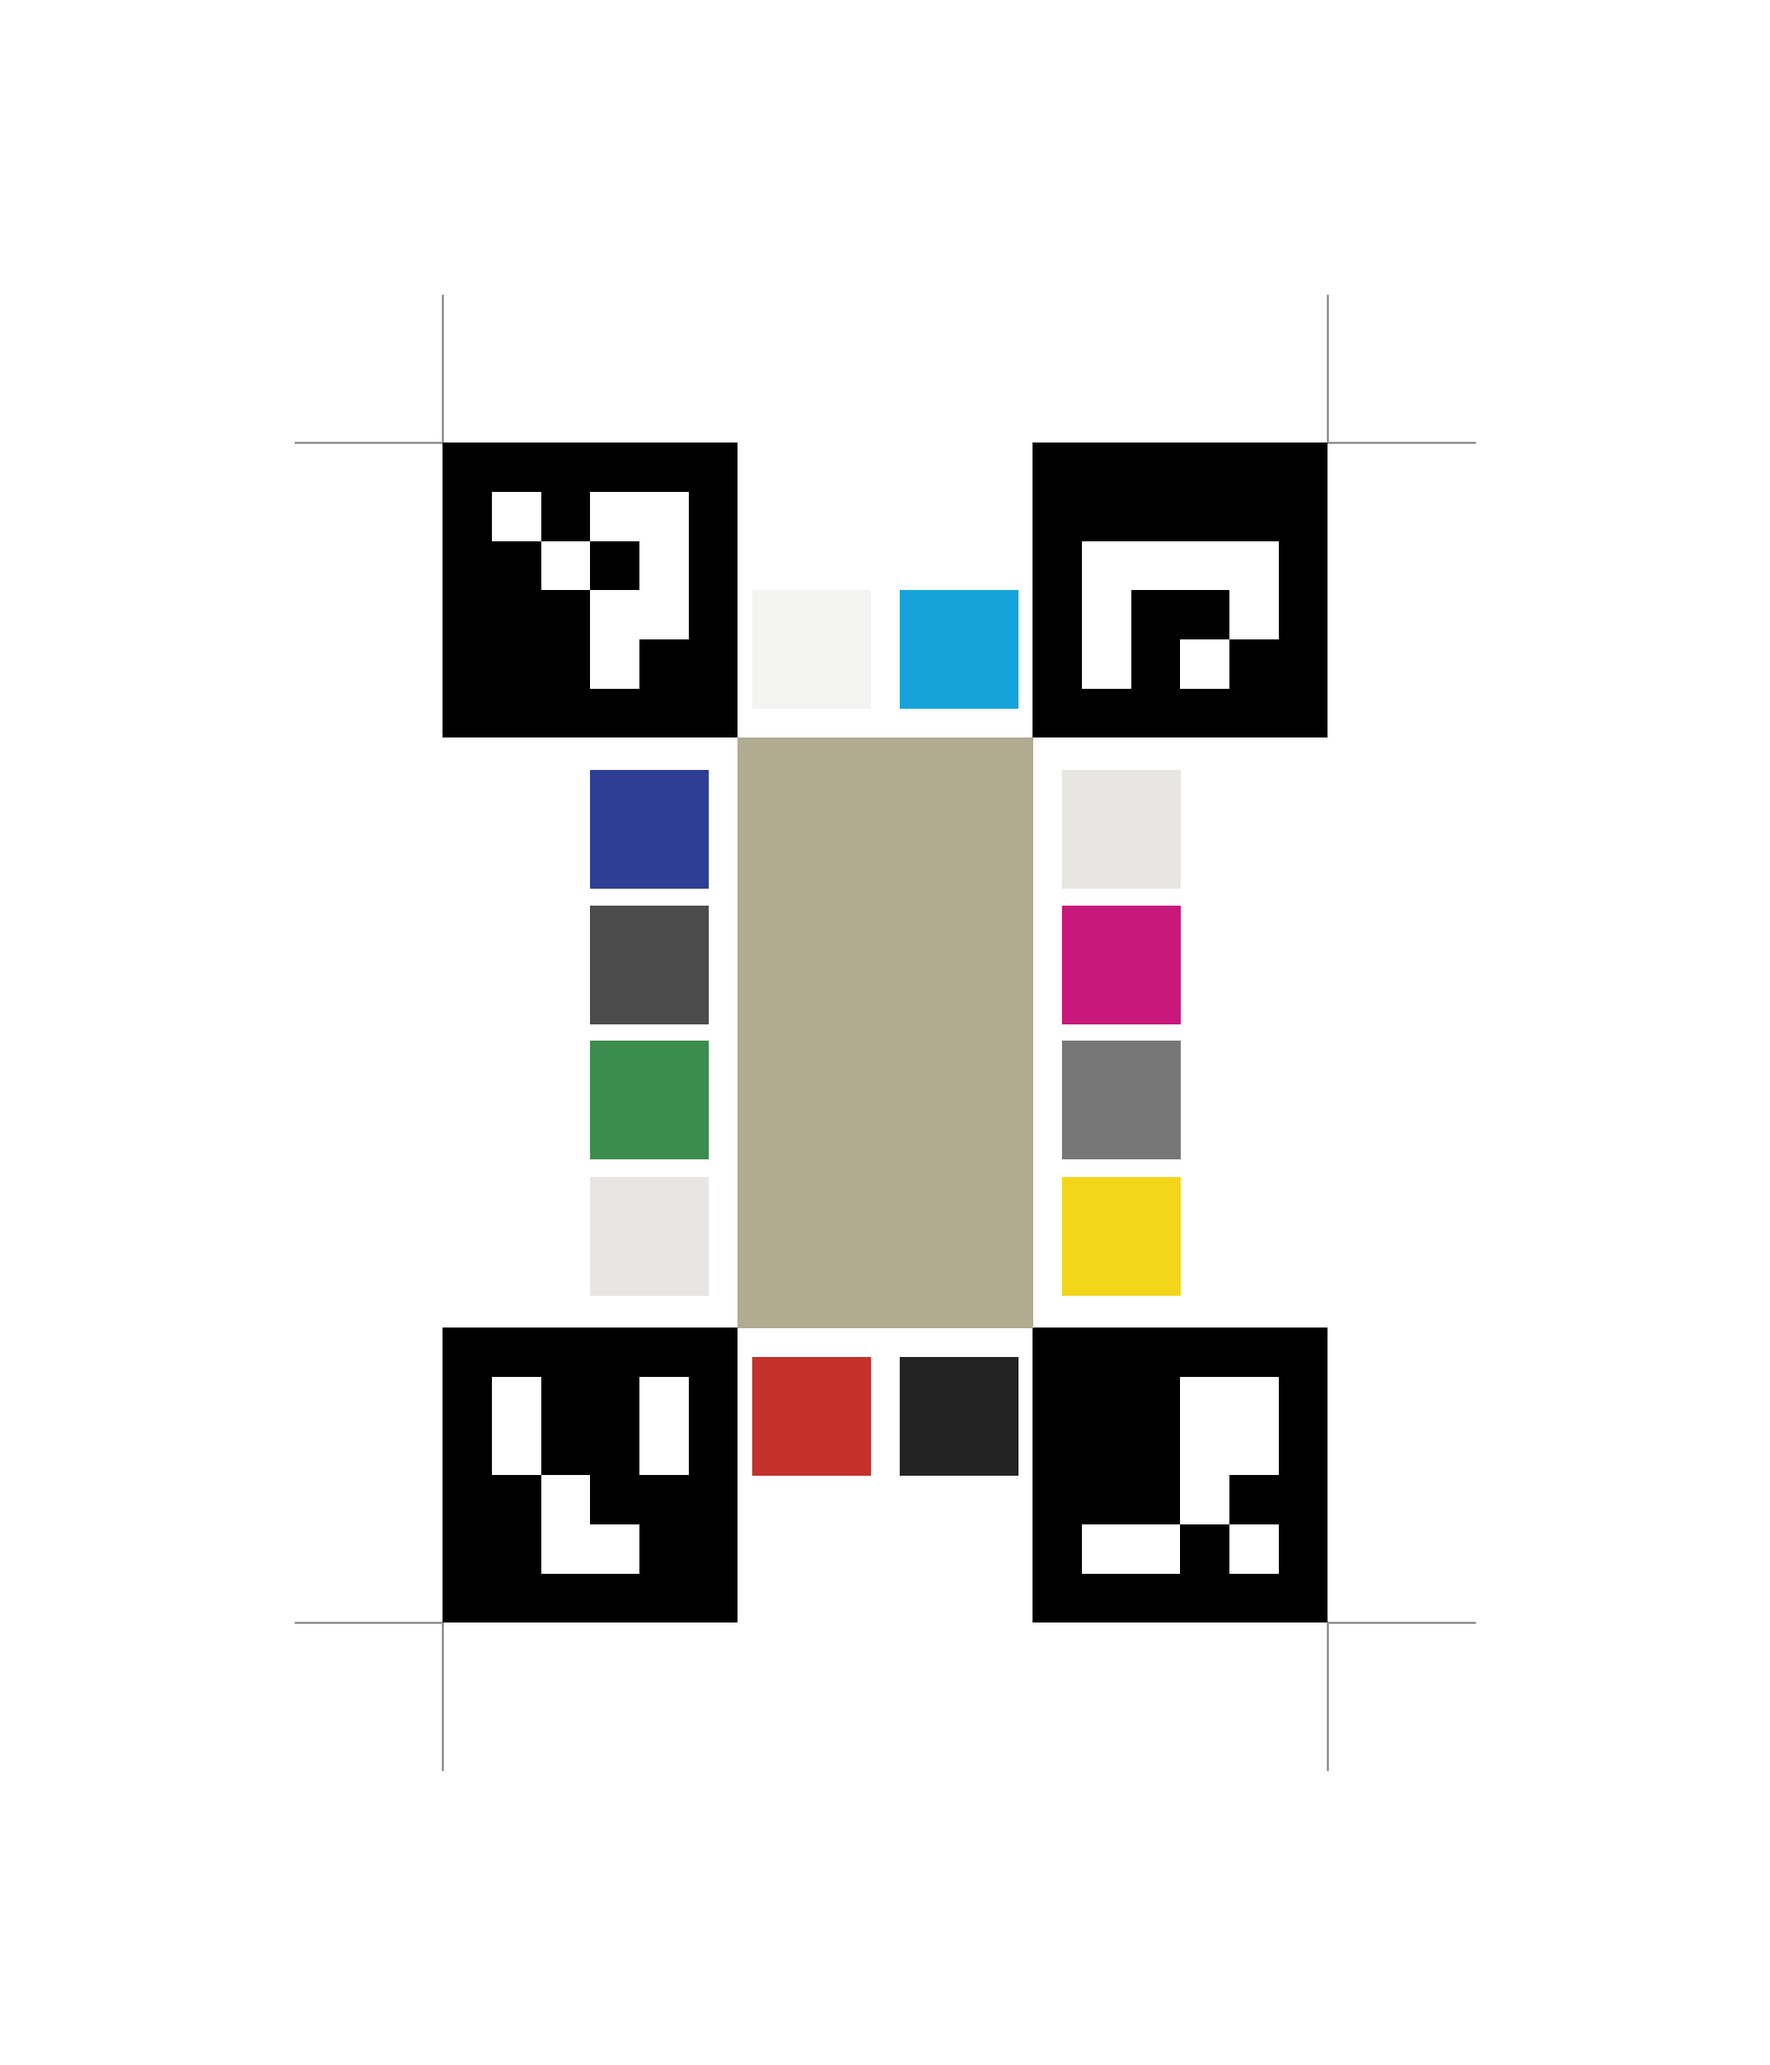
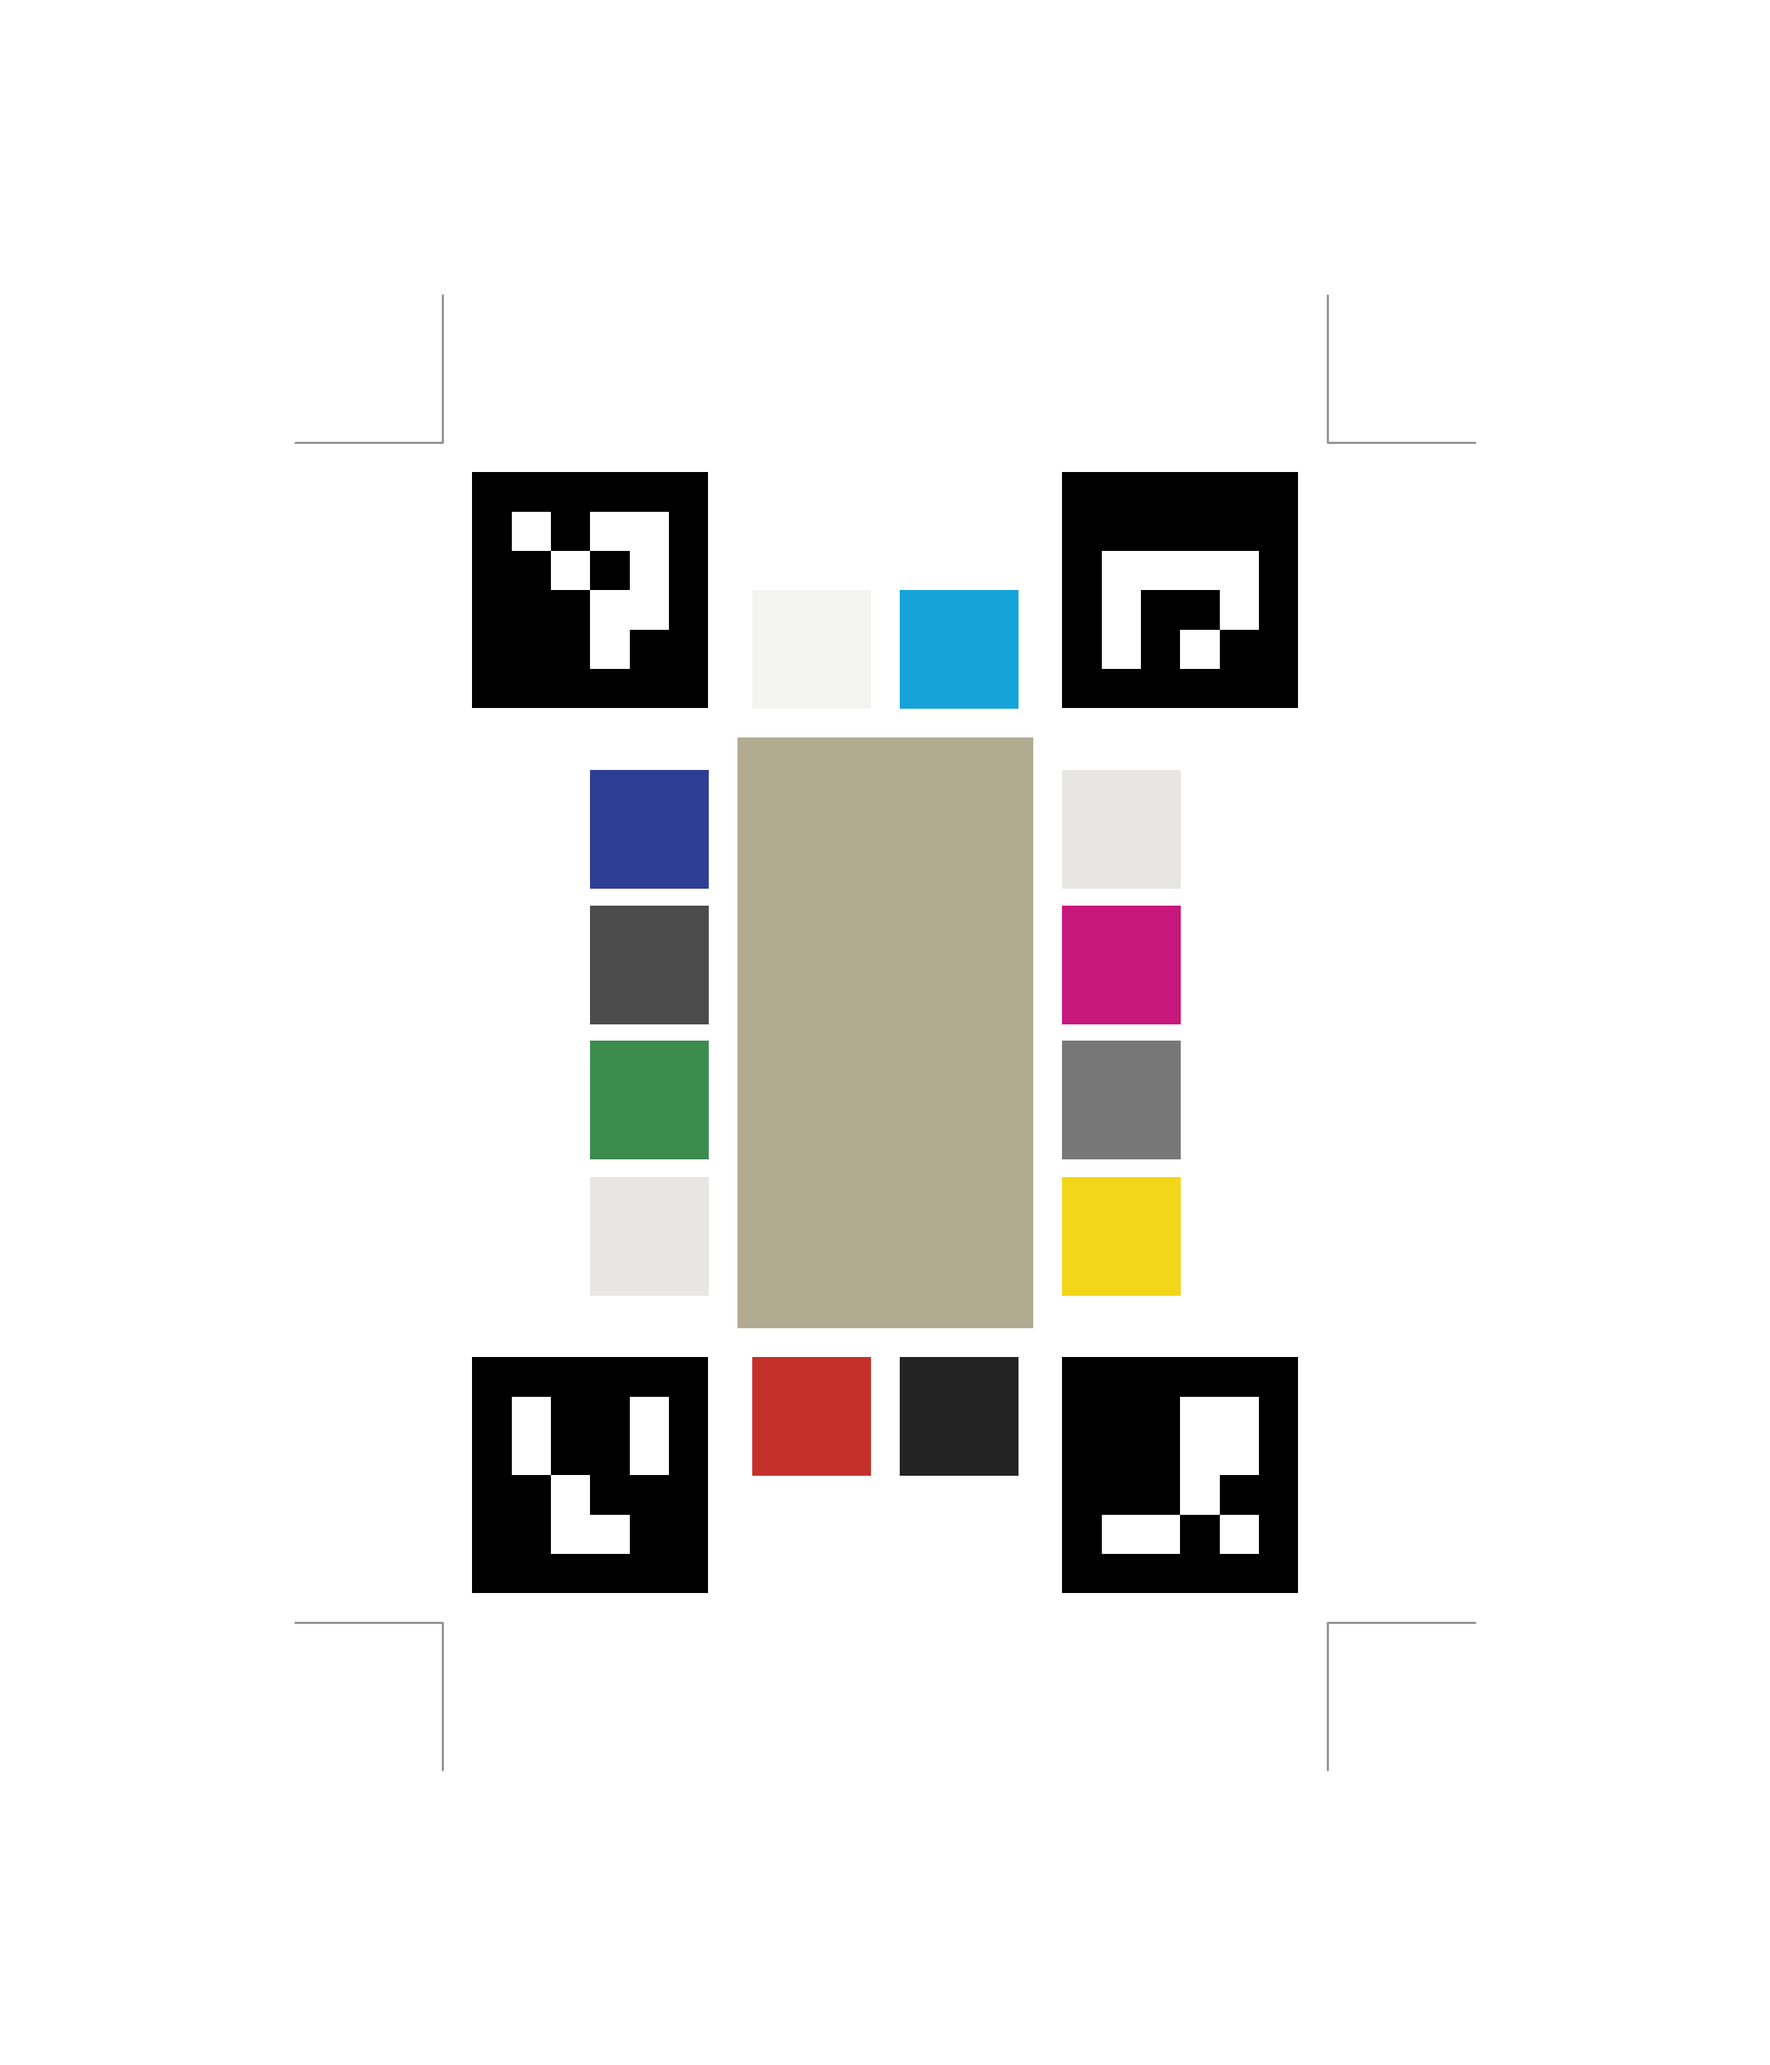
fix(scanner): prevent double-capture race condition in auto-scan

diff --git a/android/app/src/main/java/com/mrpl/wristband/ui/ScanHomeFragment.kt b/android/app/src/main/java/com/mrpl/wristband/ui/ScanHomeFragment.kt
@@ -8,6 +8,7 @@ import android.content.pm.PackageManager
 import android.graphics.Bitmap
 import android.graphics.BitmapFactory
 import android.graphics.Color
+import android.graphics.Matrix
 import android.graphics.drawable.ColorDrawable
 import android.net.Uri
 import android.content.Context
@@ -151,7 +152,12 @@ class ScanHomeFragment : Fragment() {
                 object : ImageCapture.OnImageCapturedCallback() {
                     @androidx.annotation.OptIn(androidx.camera.core.ExperimentalGetImage::class)
                     override fun onCaptureSuccess(image: ImageProxy) {
-                        val bitmap = image.toBitmap()
+                        var bitmap = image.toBitmap()
+                        val rotationDegrees = image.imageInfo.rotationDegrees
+                        if (rotationDegrees != 0) {
+                            val matrix = Matrix().apply { postRotate(rotationDegrees.toFloat()) }
+                            bitmap = Bitmap.createBitmap(bitmap, 0, 0, bitmap.width, bitmap.height, matrix, true)
+                        }
                         image.close()
                         runScanPipeline(bitmap, "H2S-G4-9982")
                     }
@@ -174,16 +180,29 @@ class ScanHomeFragment : Fragment() {
         val cameraProviderFuture = ProcessCameraProvider.getInstance(requireContext())
         cameraProviderFuture.addListener({
             val cameraProvider: ProcessCameraProvider = cameraProviderFuture.get()
-            val preview = Preview.Builder().build().also {
-                it.setSurfaceProvider(viewFinder.surfaceProvider)
+
+            val displayRotation = viewFinder.display.rotation
+            val rotation = when (displayRotation) {
+                0 -> 0
+                90 -> 90
+                180 -> 180
+                270 -> 270
+                else -> 0
             }
+
+            val preview = Preview.Builder()
+                .setTargetRotation(rotation)
+                .build()
+                .also { it.setSurfaceProvider(viewFinder.surfaceProvider) }
 
             imageCapture = ImageCapture.Builder()
                 .setCaptureMode(ImageCapture.CAPTURE_MODE_MINIMIZE_LATENCY)
+                .setTargetRotation(rotation)
                 .build()
 
             val imageAnalyzer = ImageAnalysis.Builder()
                 .setBackpressureStrategy(ImageAnalysis.STRATEGY_KEEP_ONLY_LATEST)
+                .setTargetRotation(rotation)
                 .build()
                 .also {
                     it.setAnalyzer(cameraExecutor) { imageProxy ->
@@ -217,7 +236,16 @@ class ScanHomeFragment : Fragment() {
         lastAnalysisTime = currentTime
 
         try {
-            val bitmap = imageProxy.toBitmap()
+            var bitmap = imageProxy.toBitmap()
+            
+            // Apply rotation from ImageProxy metadata as a safety net
+            // Target rotation on use cases should align frames, but this handles any mismatch
+            val rotationDegrees = imageProxy.imageInfo.rotationDegrees
+            if (rotationDegrees != 0) {
+                val matrix = Matrix().apply { postRotate(rotationDegrees.toFloat()) }
+                bitmap = Bitmap.createBitmap(bitmap, 0, 0, bitmap.width, bitmap.height, matrix, true)
+            }
+            
             val rgbaMat = Mat()
             Utils.bitmapToMat(bitmap, rgbaMat)
             val mat = Mat()
@@ -236,6 +264,7 @@ class ScanHomeFragment : Fragment() {
                     
                     if (elapsed >= 5000) {
                         isProcessingCapture = true
+                        stabilizationStartTime = 0L
                         activity?.runOnUiThread {
                             tvStandby.text = "● CAPTURING..."
                             tvStandby.setTextColor(requireContext().getColor(R.color.h2s_blue_light))
@@ -245,7 +274,12 @@ class ScanHomeFragment : Fragment() {
                                 object : ImageCapture.OnImageCapturedCallback() {
                                     @androidx.annotation.OptIn(androidx.camera.core.ExperimentalGetImage::class)
                                     override fun onCaptureSuccess(image: ImageProxy) {
-                                        val bmp = image.toBitmap()
+                                        var bmp = image.toBitmap()
+                                        val rotationDegrees = image.imageInfo.rotationDegrees
+                                        if (rotationDegrees != 0) {
+                                            val matrix = Matrix().apply { postRotate(rotationDegrees.toFloat()) }
+                                            bmp = Bitmap.createBitmap(bmp, 0, 0, bmp.width, bmp.height, matrix, true)
+                                        }
                                         image.close()
                                         runScanPipeline(bmp, "H2S-G4-9982")
                                     }
@@ -323,14 +357,16 @@ class ScanHomeFragment : Fragment() {
                 val result = DosimetryBridge.processBitmap(bitmap, actualId)
                 activity?.runOnUiThread {
                     dialog.dismiss()
-                    isProcessingCapture = false
                     
                     if (result.scanState?.name == "PROCESSING_ERROR" || result.scanState?.name == "POOR_IMAGE_QUALITY" || result.errorMessage != null) {
                         // OpenCV failed, keep scanner open and allow retry
                         stabilizationStartTime = 0L
+                        isProcessingCapture = false
                         Toast.makeText(requireContext(), "Wristband could not be detected/aligned. Please try again.", Toast.LENGTH_LONG).show()
                     } else {
-                        // Success, open result activity
+                        // Success, open result activity. 
+                        // Do NOT set isProcessingCapture = false here, leave it true to block auto-capture 
+                        // until onResume() is called when returning to this screen.
                         HistoryManager.saveRecord(requireContext(), result)
                         val intent = Intent(requireActivity(), ExposureResultActivity::class.java)
                         intent.putExtra("SCAN_RESULT", result)

diff --git a/android/app/src/androidTest/java/com/mrpl/wristband/cv/SamplerTest.kt b/android/app/src/androidTest/java/com/mrpl/wristband/cv/SamplerTest.kt
@@ -13,7 +13,6 @@ import org.opencv.core.Mat
 import org.opencv.core.Point
 import org.opencv.core.Scalar
 import org.opencv.imgproc.Imgproc
-import kotlin.math.abs
 import kotlin.math.roundToInt
 
 @RunWith(AndroidJUnit4::class)
@@ -27,16 +26,20 @@ class SamplerTest {
     @Test
     fun testSamplerExtractsLinearRGB() {
         val spec = BadgeV2Spec.BADGE
-        val n = spec.widthPx
-        val frame = Mat(n, n, CvType.CV_8UC3, Scalar(255.0, 255.0, 255.0)) // White frame
+        val w = spec.widthPx
+        val h = spec.heightPx
+        val frame = Mat(h, w, CvType.CV_8UC3, Scalar(255.0, 255.0, 255.0)) // White frame
 
-        // Fill pad with a specific color: e.g., R=100, G=150, B=200
-        val centrePx = spec.mmToPx(arrayOf(spec.centreMm))[0]
-        val padRPx = spec.mmToPx(arrayOf(doubleArrayOf(spec.padDiameterMm / 2.0)))[0][0]
+        // Fill sensing region with a specific color: e.g., R=100, G=150, B=200
+        val sense = spec.sensingRegionMm() // [x, y, w, h] in mm
+        val senseCxMm = sense[0] + sense[2] / 2.0
+        val senseCyMm = sense[1] + sense[3] / 2.0
+        val centrePx = spec.mmToPx(arrayOf(doubleArrayOf(senseCxMm, senseCyMm)))[0]
+        val padRadiusPx = spec.mmToPx(arrayOf(doubleArrayOf(min(sense[2], sense[3]) / 2.0)))[0][0] * 0.85
         Imgproc.circle(
             frame,
             Point(centrePx[0], centrePx[1]),
-            padRPx.roundToInt(),
+            padRadiusPx.roundToInt(),
             Scalar(200.0, 150.0, 100.0), // BGR
             -1
         )
@@ -48,15 +51,18 @@ class SamplerTest {
         // GREY_20: 75, 75, 75
         // BLACK: 35, 35, 35
         val patchCentres = spec.mmToPx(spec.patchCentresMm())
-        val sidePx = spec.mmToPx(arrayOf(doubleArrayOf(spec.patchMm)))[0][0]
-        val h = sidePx / 2.0
+        val patchRects = spec.patchRectsMm()
+        val patchWmm = patchRects[0][2]
+        val patchHmm = patchRects[0][3]
+        val sidePx = spec.mmToPx(arrayOf(doubleArrayOf(patchWmm)))[0][0]
+        val hPx = sidePx / 2.0
         
         fun drawPatch(idx: Int, r: Double, g: Double, b: Double) {
             val c = patchCentres[idx]
             Imgproc.rectangle(
                 frame,
-                Point(c[0] - h, c[1] - h),
-                Point(c[0] + h, c[1] + h),
+                Point(c[0] - hPx, c[1] - hPx),
+                Point(c[0] + hPx, c[1] + hPx),
                 Scalar(b, g, r),
                 -1
             )
@@ -90,9 +96,5 @@ class SamplerTest {
         
         assertTrue("Monotonicity check failed", p50.luminance > p20.luminance)
         assertTrue("Monotonicity check failed", p20.luminance > pBlack.luminance)
-        
-        // Verify clip fraction for white field is very high
-        val w0 = samples.whiteField[0]
-        assertEquals(1.0, w0.clipFraction, 0.05)
     }
 }

diff --git a/android/app/src/androidTest/java/com/mrpl/wristband/cv/DetectorTest.kt b/android/app/src/androidTest/java/com/mrpl/wristband/cv/DetectorTest.kt
@@ -32,7 +32,7 @@ class DetectorTest {
         
         for (i in spec.markerIds.indices) {
             val id = spec.markerIds[i]
-            val markerSizeMm = 4.5
+            val markerSizeMm = spec.fiducialSizeMm
             val sidePx = (markerSizeMm * scale).toInt()
             val markerImg = Mat()
             Objdetect.generateImageMarker(dict, id, sidePx, markerImg, 1)
@@ -56,7 +56,7 @@ class DetectorTest {
         assertTrue(res.reprojRmseMm < 0.35)
         
         assertNotNull(res.warped)
-        assertEquals(600, res.warped!!.cols())
-        assertEquals(600, res.warped!!.rows())
+        assertEquals(spec.widthPx, res.warped!!.cols())
+        assertEquals(spec.heightPx, res.warped!!.rows())
     }
 }

diff --git a/android/app/src/main/java/com/mrpl/wristband/config/BadgeV2Spec.kt b/android/app/src/main/java/com/mrpl/wristband/config/BadgeV2Spec.kt
@@ -27,7 +27,7 @@ data class BadgeV2Spec(
     val widthMm: Double = 30.0,
     val heightMm: Double = 40.0,
     val pxPerMm: Double = 20.0,
-    val fiducialSizeMm: Double = 10.0,
+    val fiducialSizeMm: Double = 8.0,
     val fiducialInsetMm: Double = 5.0
 ) {
     val widthPx: Int get() = (widthMm * pxPerMm).toInt()

diff --git a/reference/python/badge/make_physics_sheets.py b/reference/python/badge/make_physics_sheets.py
@@ -28,7 +28,7 @@ def draw_badge(img, x_offset_px, y_offset_px, px_per_mm, pad_color_bgr):
     cv2.line(img, (x_offset_px + w_px, y_offset_px + h_px), (x_offset_px + w_px, y_offset_px + h_px + crop_len), crop_color, thick)
 
     aruco_dict = cv2.aruco.getPredefinedDictionary(cv2.aruco.DICT_4X4_50)
-    fid_size = int(10.0 * px_per_mm)
+    fid_size = int(8.0 * px_per_mm)
     inset = int(5.0 * px_per_mm)
     centers = [
         (inset, inset), (w_px - inset, inset),

diff --git a/reference/python/badge/make_badge_v2.py b/reference/python/badge/make_badge_v2.py
@@ -39,7 +39,7 @@ cv2.line(img, (x_off + w_px, y_off + h_px), (x_off + w_px, y_off + h_px + crop_l
 
 
 aruco_dict = cv2.aruco.getPredefinedDictionary(cv2.aruco.DICT_4X4_50)
-fid_size = int(10.0 * px_per_mm)
+fid_size = int(8.0 * px_per_mm)
 inset = int(5.0 * px_per_mm)
 centers = [
     (inset, inset),
